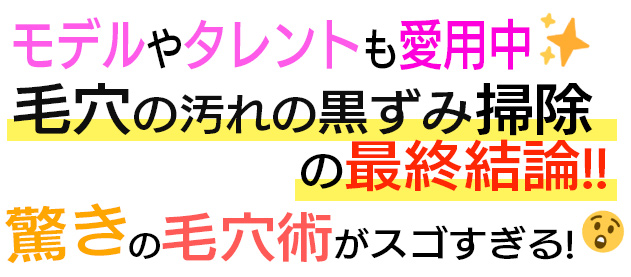
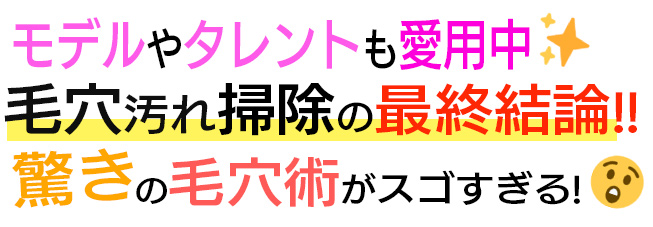
最終修正

diff --git a/beauty_news_hada-n.html b/beauty_news_hada-n.html
@@ -1406,7 +1406,7 @@
 
 			<div class="item text">
 				<p class="content_article_p" style="font-size:16px;">
-					<span style="font-size:16px;"><b>美容大国・韓国人たちもハマる黒ずみ対策術</b>をSNSで発見!!</span>
+					<span style="font-size:16px;"><b>美容大国・韓国人たちもハマる毛穴の汚れの黒ずみ対策術</b>をSNSで発見!!</span>
 				</p>
 			</div>
 			<center>
